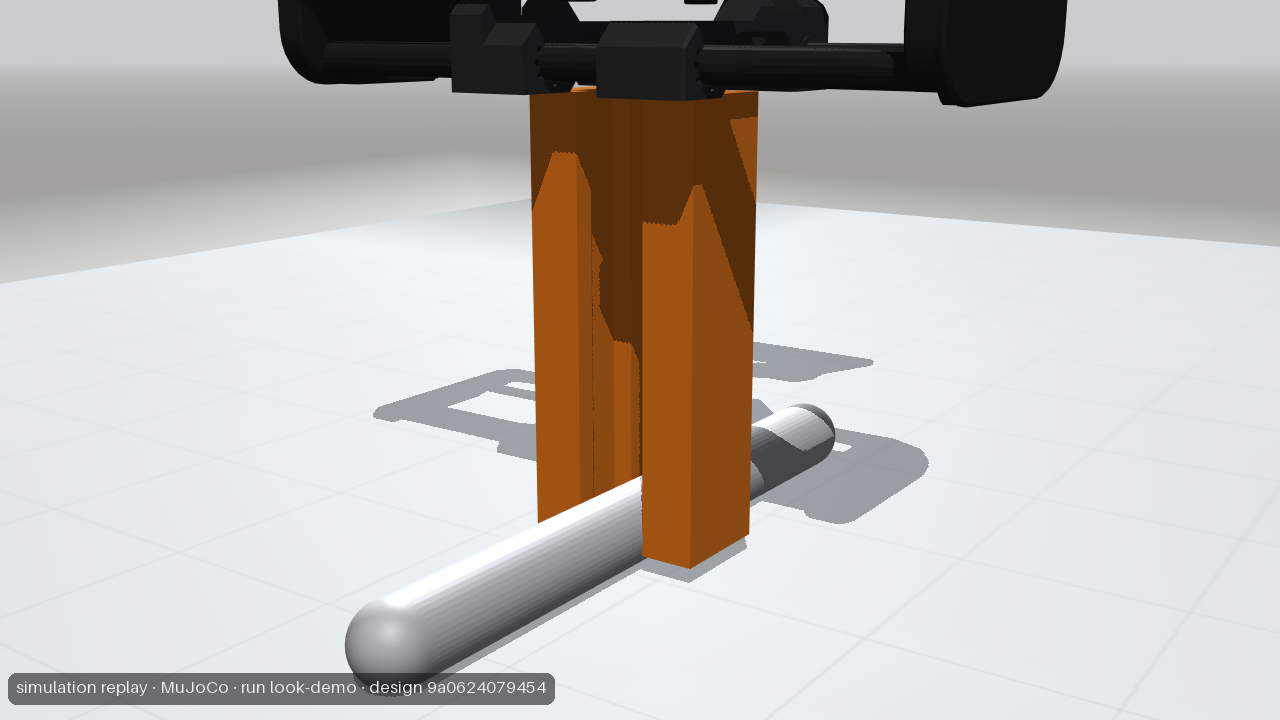
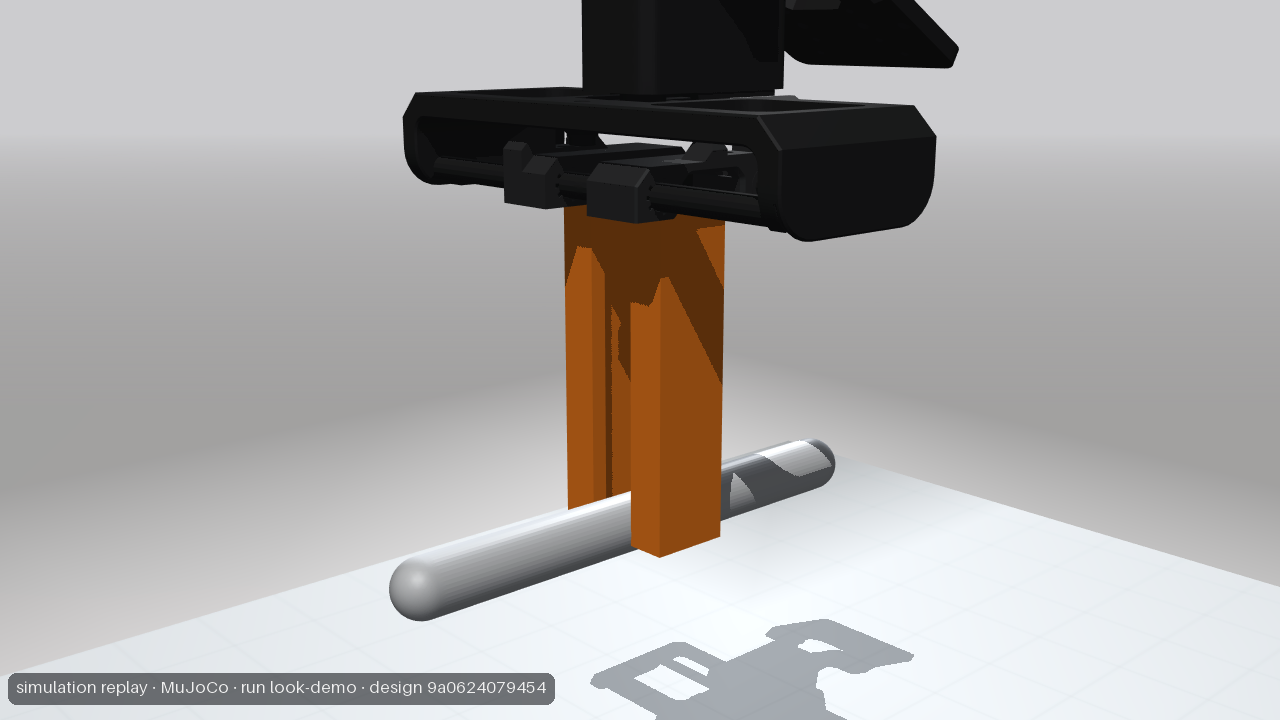
Frame the close-up look still on the held part
The close-up now shows the designed v1 jaws holding the peg in the air
(about 5 s in) from a little above the jaws, so the frame, both carriages
and the floor shadow are in shot. The wide and x-ray stills are unchanged.

diff --git a/scripts/video/look_demo.py b/scripts/video/look_demo.py
@@ -117,7 +117,9 @@ def main(argv: list[str] | None = None) -> int:
     wide, xray = "wide", "xray"
     phases = {p["name"]: p for p in task_summary(default_task())["phases"]}
     grasp = round(phases["lift"]["start_s"] * 30) - 2  # jaws closed and squeezing, part on the mat
-    close = View((0.0, 0.0, 0.030), 0.24, 215.0, -14.0, 30.0)
+    hold = round(phases["hold"]["start_s"] * 30) + 27  # lifted and held, about 5 s in
+    # a little above the jaws, so the frame, both carriages and the floor shadow are in shot
+    close = View((0.0, 0.0, 0.040), 0.32, 228.0, -14.0, 30.0)
     t0 = time.perf_counter()
     stills = {}
     slug, block, peg = replays["stock_slug"], replays["stock_block"], replays["concave_peg"]
@@ -142,7 +144,12 @@ def main(argv: list[str] | None = None) -> int:
         )
     )
     stills.update(
-        render_stills(peg, store, {"hero_close_concave_peg": {"frame": grasp, "view": close}}, args.docs)
+        render_stills(
+            peg,
+            store,
+            {"hero_close_concave_peg": {"frame": min(hold, peg.n_frames - 1), "view": close}},
+            args.docs,
+        )
     )
     still_s = time.perf_counter() - t0
     t0 = time.perf_counter()
